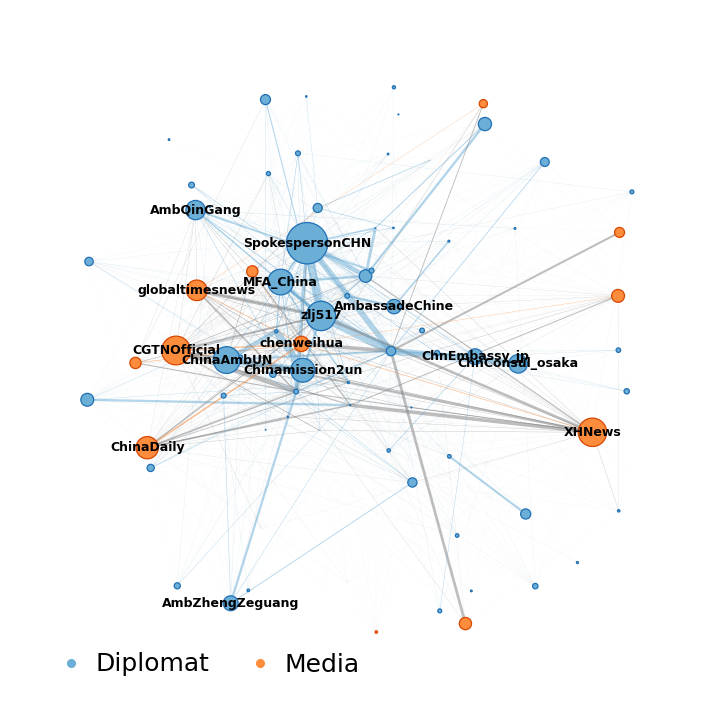
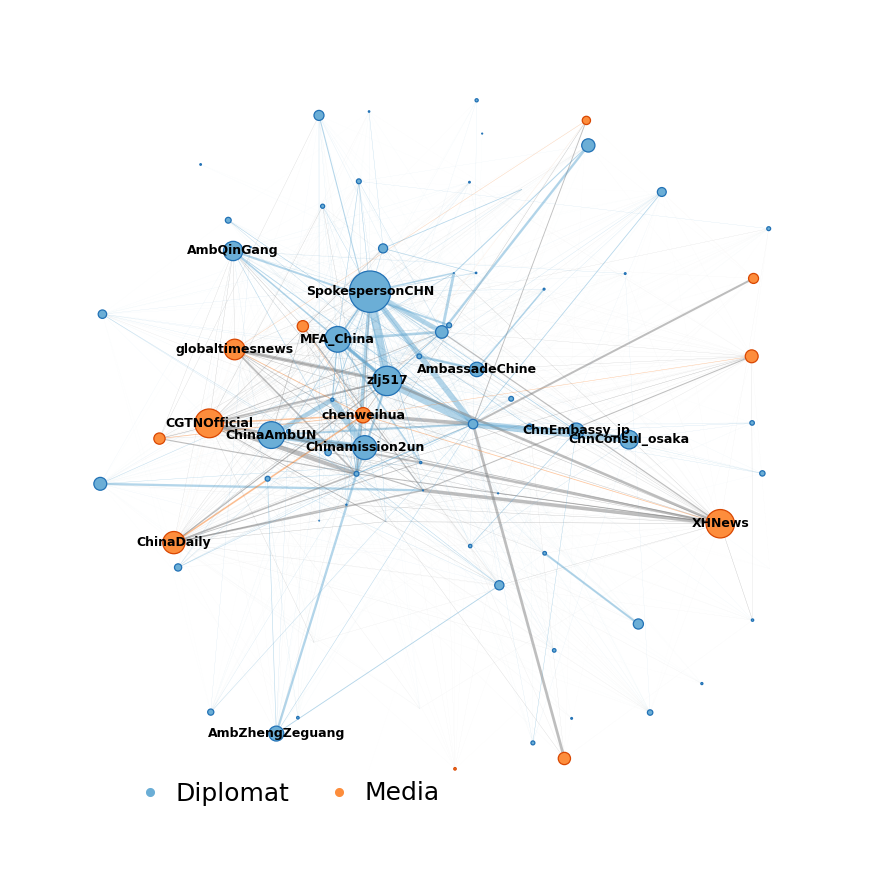
testing larger size

diff --git a/networks/src/network_late.py b/networks/src/network_late.py
@@ -162,7 +162,7 @@ def plot_network(G, nodelst, edgelst, color_dct, node_color, nodeedge_color, edg
     '''
 
     # setup 
-    fig, ax = plt.subplots(figsize=(2.5, 2.5), dpi=300, facecolor='w', edgecolor='k')
+    fig, ax = plt.subplots(figsize=(3, 3), dpi=300, facecolor='w', edgecolor='k')
     plt.axis("off")
 
     # position & manual tweaking
